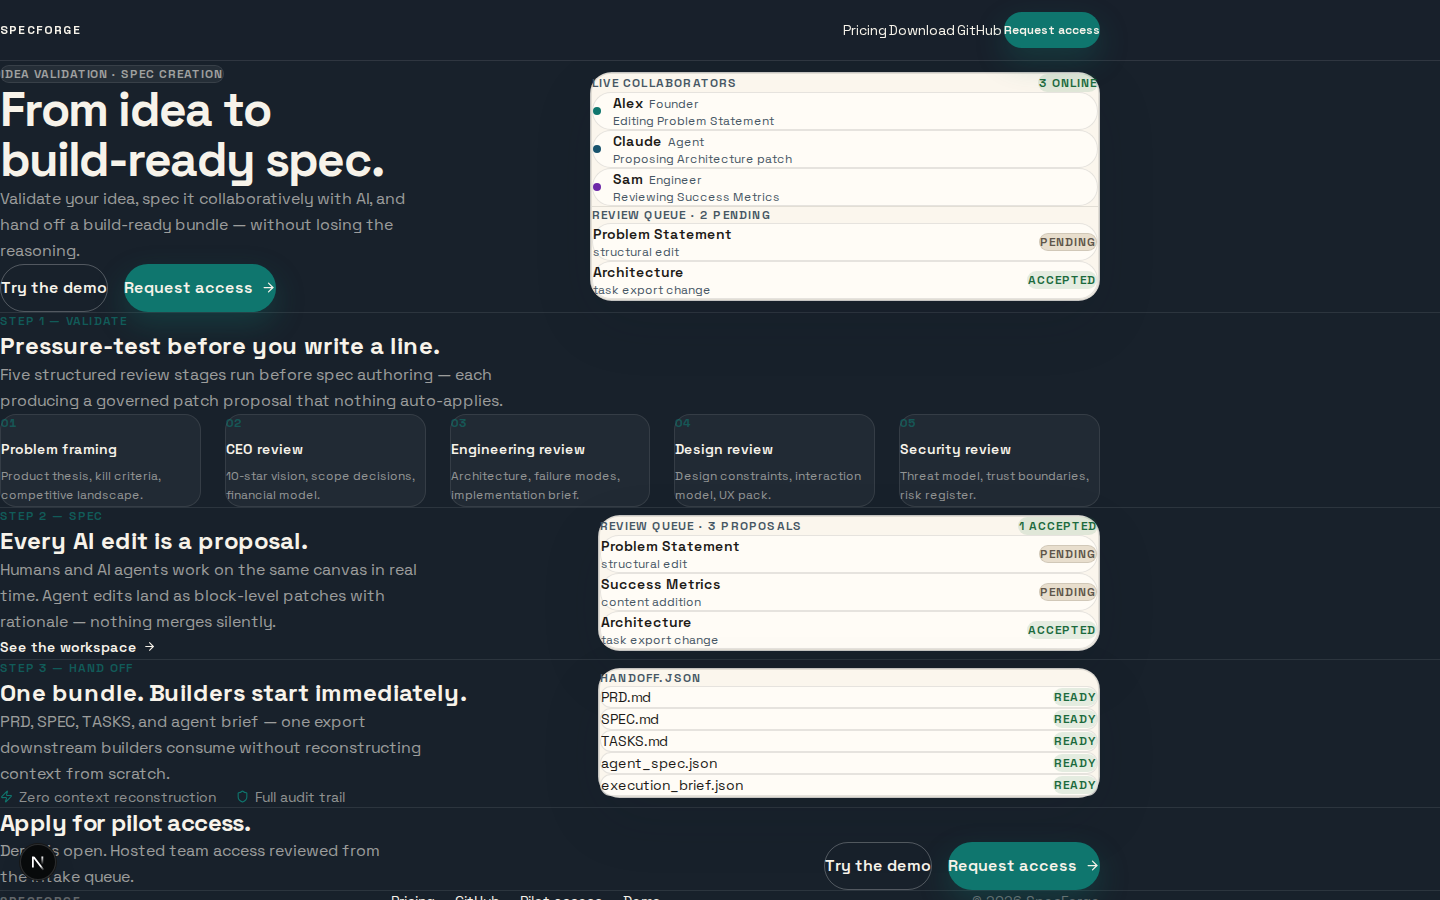
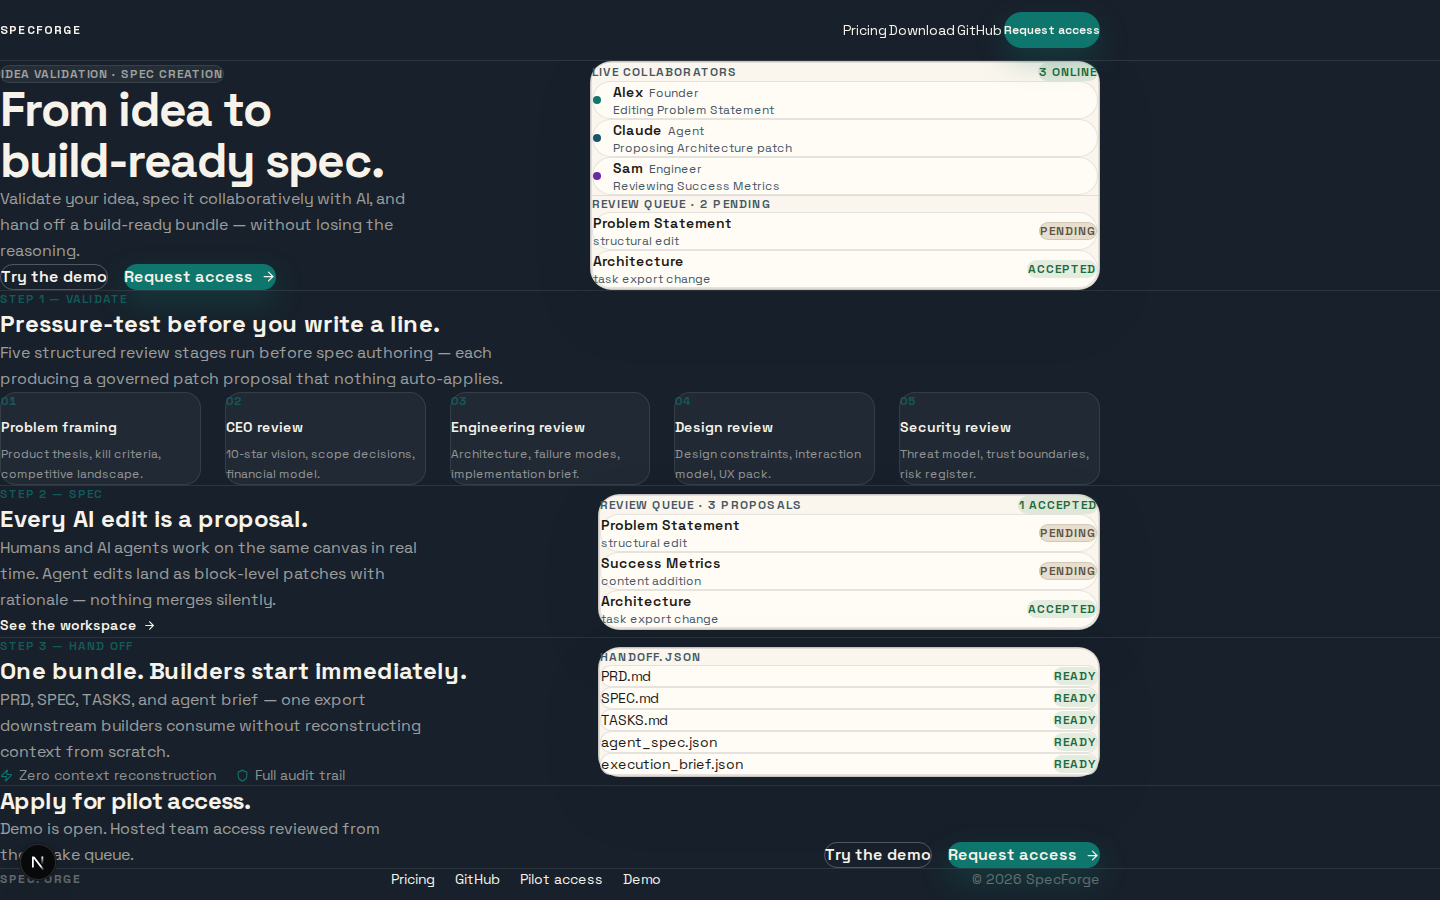
fix(web): button and section spacing — explicit padding all sides
- Button lg: h-12 px-8 → py-4 px-8 (removes fixed height, explicit vertical
  padding gives real breathing room above/below text inside the button)
- Landing sections: space-y-5/6 → space-y-7/8 on all text blocks
- Section padding: py-16 lg:py-28 → py-20 lg:py-32 with matching side padding
  px-6 sm:px-10 lg:px-16 across all sections, footer, and nav
- CTA section: py-20 lg:py-28 with same side padding

[Agent: Claude Sonnet 4.6]

diff --git a/web/src/app/page.tsx b/web/src/app/page.tsx
@@ -34,9 +34,9 @@ export default function LandingPage() {
       />
 
       {/* ─── Hero ──────────────────────────────────────────── */}
-      <section className="mx-auto w-full max-w-[1100px] px-6 pb-14 pt-16 sm:px-8 md:pt-24 lg:px-10">
+      <section className="mx-auto w-full max-w-[1100px] px-6 pb-16 pt-20 sm:px-10 md:pt-28 lg:px-16">
         <div className="grid gap-10 lg:grid-cols-2 lg:items-center lg:gap-20">
-          <div className="space-y-6">
+          <div className="space-y-8">
             <Badge variant="outline" className="border-border-dark text-primary-foreground/60">
               Idea validation · Spec creation
             </Badge>
@@ -115,8 +115,8 @@ export default function LandingPage() {
 
       {/* ─── Step 1: Validate ─────────────────────────────── */}
       {/* Full-width step list — breaks rhythm from 2-col sections */}
-      <section className="mx-auto w-full max-w-[1100px] px-6 py-16 sm:px-8 lg:px-10 lg:py-28">
-        <div className="mb-10 max-w-[52ch] space-y-4">
+      <section className="mx-auto w-full max-w-[1100px] px-6 py-20 sm:px-10 lg:px-16 lg:py-32">
+        <div className="mb-12 max-w-[52ch] space-y-7">
           <p className="text-xs font-semibold uppercase tracking-widest text-accent/70">
             Step 1 — Validate
           </p>
@@ -141,9 +141,9 @@ export default function LandingPage() {
       <div className="border-t border-border-dark" />
 
       {/* ─── Step 2: Spec ─────────────────────────────────── */}
-      <section className="mx-auto w-full max-w-[1100px] px-6 py-16 sm:px-8 lg:px-10 lg:py-28">
+      <section className="mx-auto w-full max-w-[1100px] px-6 py-20 sm:px-10 lg:px-16 lg:py-32">
         <div className="grid gap-12 lg:grid-cols-2 lg:items-center lg:gap-24">
-          <div className="space-y-5">
+          <div className="space-y-7">
             <p className="text-xs font-semibold uppercase tracking-widest text-accent/70">
               Step 2 — Spec
             </p>
@@ -186,7 +186,7 @@ export default function LandingPage() {
       <div className="border-t border-border-dark" />
 
       {/* ─── Step 3: Hand off ─────────────────────────────── */}
-      <section className="mx-auto w-full max-w-[1100px] px-6 py-16 sm:px-8 lg:px-10 lg:py-28">
+      <section className="mx-auto w-full max-w-[1100px] px-6 py-20 sm:px-10 lg:px-16 lg:py-32">
         <div className="grid gap-12 lg:grid-cols-2 lg:items-center lg:gap-24">
           {/* Reverse column order on desktop — breaks visual rhythm */}
           <Card className="p-1 lg:order-2">
@@ -229,7 +229,7 @@ export default function LandingPage() {
 
       {/* ─── CTA ──────────────────────────────────────────── */}
       <div className="border-t border-border-dark" />
-      <section className="mx-auto w-full max-w-[1100px] px-6 py-16 sm:px-8 lg:px-10 lg:py-24">
+      <section className="mx-auto w-full max-w-[1100px] px-6 py-20 sm:px-10 lg:px-16 lg:py-28">
         <div className="flex flex-col gap-8 sm:flex-row sm:items-end sm:justify-between">
           <div className="space-y-3">
             <h2 className="max-w-[20ch] text-balance text-2xl font-bold leading-tight tracking-tight">
@@ -255,7 +255,7 @@ export default function LandingPage() {
 
       {/* ─── Footer ───────────────────────────────────────── */}
       <footer className="border-t border-border-dark">
-        <div className="mx-auto flex w-full max-w-[1100px] flex-col gap-4 px-6 py-6 sm:flex-row sm:items-center sm:justify-between sm:px-8 lg:px-10">
+        <div className="mx-auto flex w-full max-w-[1100px] flex-col gap-4 px-6 py-8 sm:flex-row sm:items-center sm:justify-between sm:px-10 lg:px-16">
           <span className="text-xs font-black uppercase tracking-widest text-primary-foreground/35">
             SpecForge
           </span>

diff --git a/web/src/components/site-nav.tsx b/web/src/components/site-nav.tsx
@@ -47,7 +47,7 @@ export function SiteNav({
           : "sticky top-0 z-50 w-full border-b border-border bg-background/90 backdrop-blur-xl"
       }
     >
-      <div className="mx-auto flex min-h-[3.75rem] w-full max-w-[1100px] items-center justify-between px-5 sm:px-8">
+      <div className="mx-auto flex min-h-[3.75rem] w-full max-w-[1100px] items-center justify-between px-6 sm:px-10 lg:px-16">
         <Link
           href="/"
           className={

diff --git a/web/src/components/ui/button.tsx b/web/src/components/ui/button.tsx
@@ -26,7 +26,7 @@ const buttonVariants = cva(
       size: {
         default: "h-11 px-5 py-2",
         sm: "h-9 px-4 text-xs",
-        lg: "h-12 px-8 text-base",
+        lg: "px-8 py-4 text-base",
         icon: "h-10 w-10",
       },
     },
